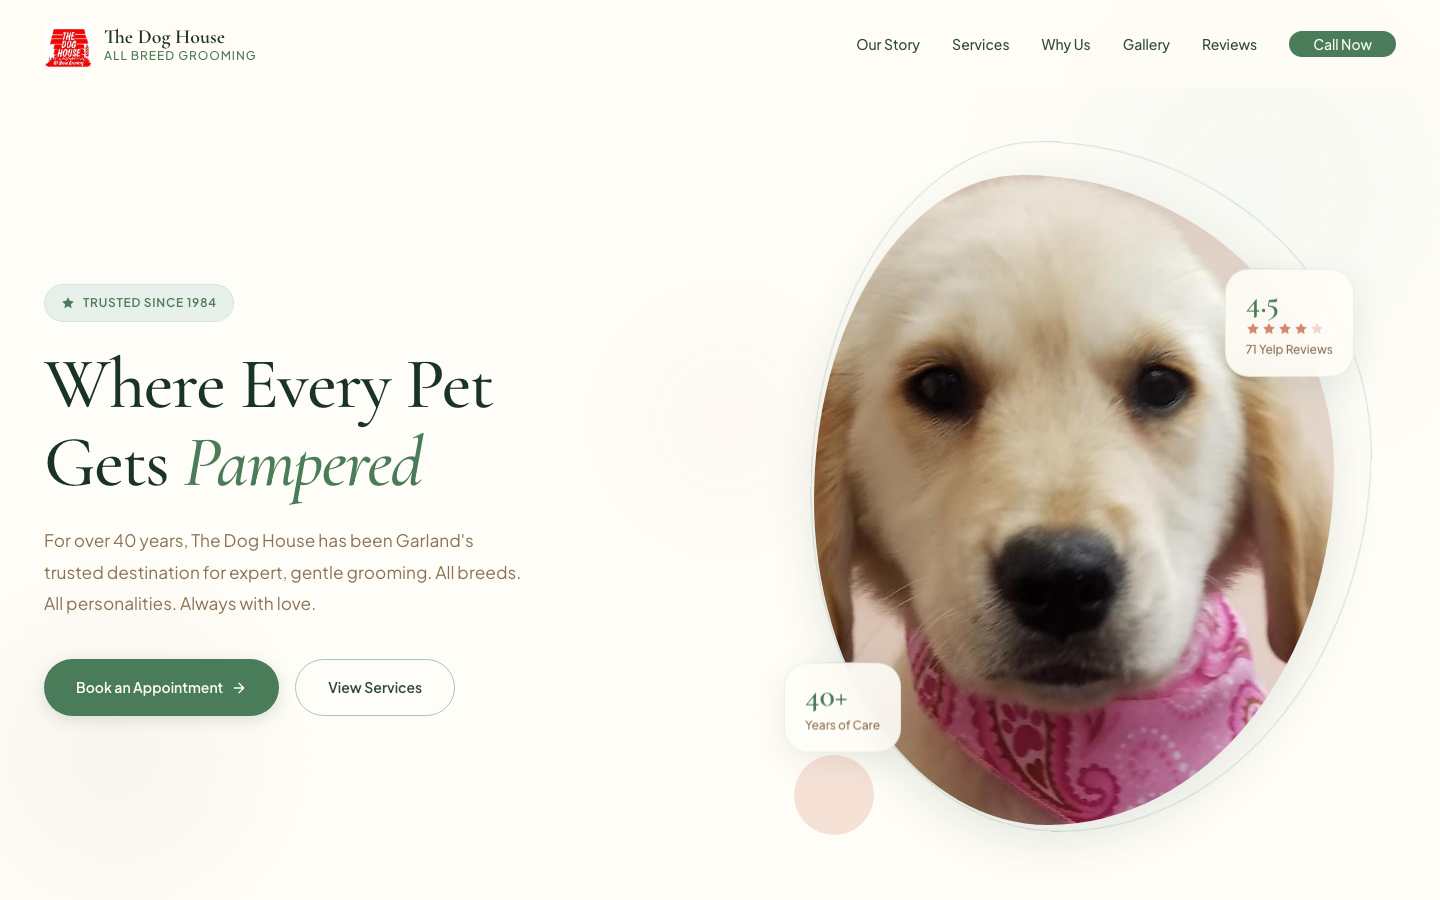
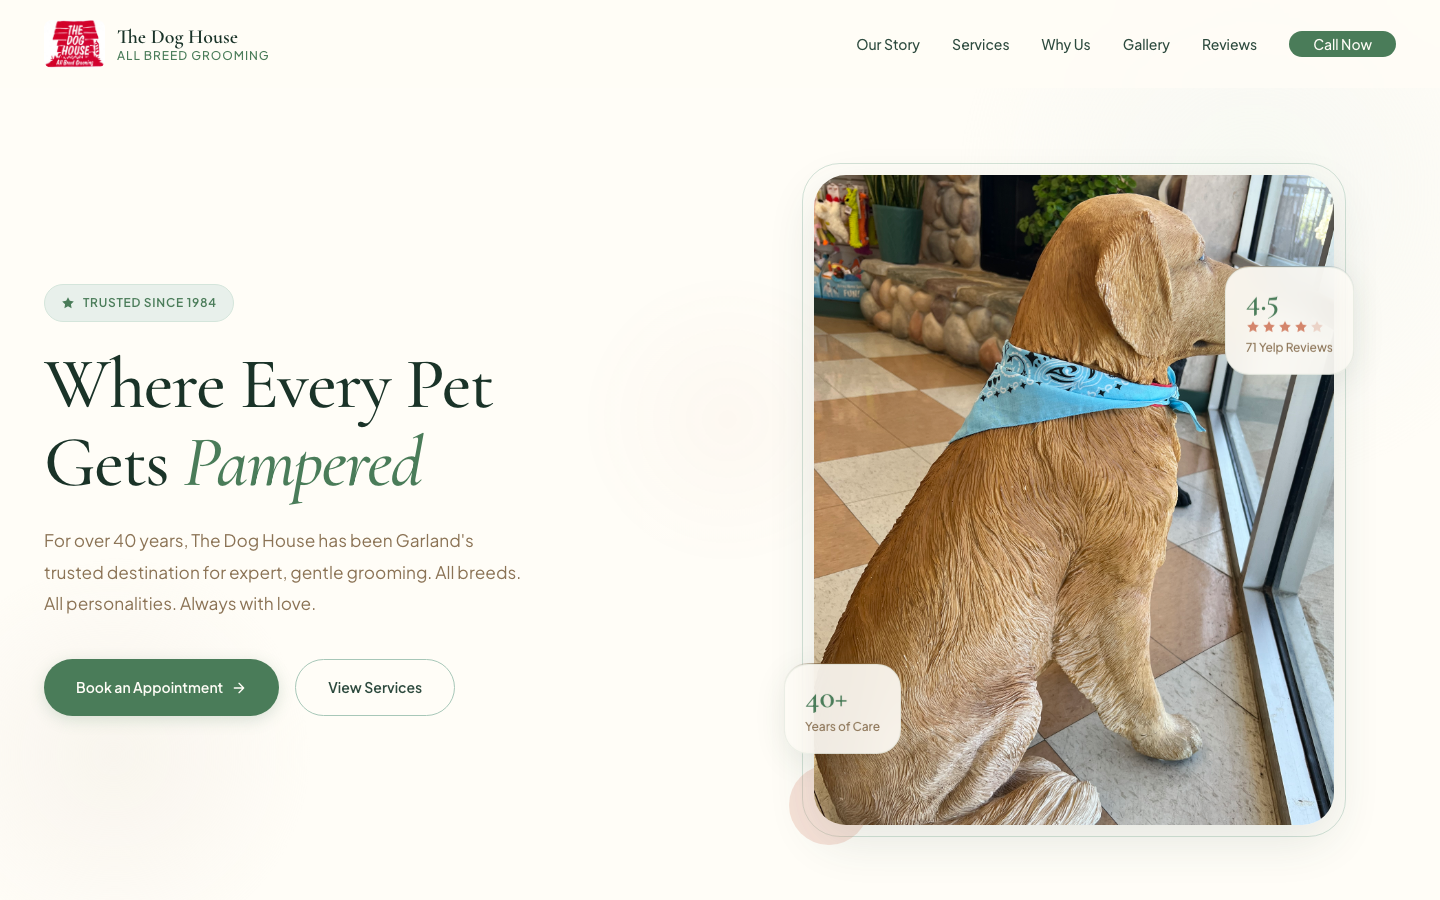
Added real shop photos to all 3 concepts, changed Coastal Luxe hero shape
Replaced stock photos with actual business location images:
- IMG_5305 (dog statue w/ bandana): Barnwood hero, Coastal Luxe hero
- IMG_5293 (fireplace close-up): Barnwood about, Heritage Bloom story,
  Coastal Luxe story
- IMG_5290 (entry/fireplace wide): Coastal Luxe story
- IMG_5294 (shop interior): Barnwood gallery
- IMG_5302 (LIVE LOVE BARK sign): Coastal Luxe gallery
- IMG_5304 (treat jars): all 3 galleries

Coastal Luxe: replaced oval blob hero frame with clean rounded
rectangle + subtle border frame.

Changed region(s): [[0.5312, 0.1867, 0.9375, 0.9333], [0.0312, 0.0, 0.1875, 0.0933]]

diff --git a/docs/doghouse/coastal-luxe/index.html b/docs/doghouse/coastal-luxe/index.html
@@ -592,20 +592,19 @@
             aspect-ratio: 4 / 5;
             object-fit: cover;
             object-position: top;
-            border-radius: 40% 60% 55% 45% / 50% 45% 55% 50%;
+            border-radius: var(--radius-2xl);
             box-shadow: var(--shadow-elevated);
         }
 
-        /* Decorative ring behind image */
+        /* Decorative border behind image */
         .hero__image-frame::before {
             content: '';
             position: absolute;
-            inset: -20px;
-            border-radius: 40% 60% 55% 45% / 50% 45% 55% 50%;
+            inset: -12px;
+            border-radius: calc(var(--radius-2xl) + 6px);
             border: 1.5px solid var(--sage-light);
             opacity: 0.5;
             z-index: -1;
-            animation: float-slow 15s ease-in-out infinite;
         }
 
         /* Small accent dot */
@@ -617,8 +616,8 @@
             border-radius: 50%;
             background: var(--coral-soft);
             opacity: 0.3;
-            bottom: -10px;
-            left: -20px;
+            bottom: -20px;
+            left: -25px;
             z-index: -1;
         }
 
@@ -1820,7 +1819,7 @@
 
             <div class="hero__visual reveal reveal--delay-2">
                 <div class="hero__image-frame">
-                    <img src="../dog01.jpg" alt="A happy golden retriever puppy wearing a pink bandana after grooming at The Dog House">
+                    <img src="../images/IMG_5305.jpeg" alt="Golden retriever statue wearing a blue bandana welcomes visitors at The Dog House">
 
                     <div class="hero__stat-card hero__stat-card--years">
                         <div class="hero__stat-number">40+</div>
@@ -1882,10 +1881,10 @@
         <div class="container container--wide story__inner">
             <div class="story__images scroll-reveal">
                 <div class="story__img-primary">
-                    <img src="../dog-with-heart.jpg" alt="A fluffy dog cuddling with a red heart plush toy">
+                    <img src="../images/IMG_5290.jpeg" alt="The Dog House welcoming entry area with stone fireplace and wreath">
                 </div>
                 <div class="story__img-secondary">
-                    <img src="../dog01.jpg" alt="Golden retriever puppy with pink bandana">
+                    <img src="../images/IMG_5293.jpeg" alt="Close-up of The Dog House stone fireplace with framed photos on the mantel">
                 </div>
                 <div class="story__year-badge">Est. 1984</div>
             </div>
@@ -2056,14 +2055,14 @@
 
             <div class="gallery__grid">
                 <div class="gallery__item scroll-reveal">
-                    <img src="../dog01.jpg" alt="Golden retriever puppy freshly groomed with a pink bandana">
+                    <img src="../images/IMG_5302.jpeg" alt="LIVE LOVE BARK carved wooden sign at The Dog House">
                     <div class="gallery__item-overlay">
                         <div class="gallery__item-title">Ready to Shine</div>
                         <div class="gallery__item-sub">Full groom with bandana</div>
                     </div>
                 </div>
                 <div class="gallery__item scroll-reveal">
-                    <img src="../dog-with-heart.jpg" alt="Fluffy dog snuggling a red heart plush toy after grooming">
+                    <img src="../images/IMG_5304.jpeg" alt="Glass jars filled with bone-shaped dog treats at The Dog House">
                     <div class="gallery__item-overlay">
                         <div class="gallery__item-title">Feeling the Love</div>
                         <div class="gallery__item-sub">Bath, brush-out, and cuddles</div>

diff --git a/docs/doghouse/barnwood-bandanas/index.html b/docs/doghouse/barnwood-bandanas/index.html
@@ -1468,7 +1468,7 @@
         <!-- ===== HERO ===== -->
         <section class="hero" aria-label="Welcome to The Dog House">
             <div class="hero__img">
-                <img src="../dog-with-heart.jpg" alt="Happy dog with a red heart at The Dog House grooming shop" width="1920" height="1080" loading="eager" fetchpriority="high">
+                <img src="../images/IMG_5305.jpeg" alt="Golden retriever statue wearing a blue bandana welcomes visitors at The Dog House" width="1920" height="1080" loading="eager" fetchpriority="high">
             </div>
             <div class="hero__content">
                 <div class="hero__badge">
@@ -1589,7 +1589,7 @@
             <div class="container">
                 <div class="about__grid">
                     <div class="about__image-wrap reveal">
-                        <img src="../dog-with-heart.jpg" alt="Fluffy dog with heart shape, representing the love and care at The Dog House" width="600" height="750" loading="lazy">
+                        <img src="../images/IMG_5293.jpeg" alt="Stone fireplace in The Dog House entry area with framed photos on the mantel" width="600" height="750" loading="lazy">
                         <div class="about__stamp" aria-label="Established 1984, over 40 years of grooming">
                             <span class="about__stamp-est">Est.</span>
                             <span class="about__stamp-year">1984</span>
@@ -1703,10 +1703,10 @@
                 </div>
                 <div class="gallery-strip__grid">
                     <div class="gallery-strip__item reveal reveal-delay-1">
-                        <img src="../dog01.jpg" alt="Golden retriever puppy with pink bandana after grooming" width="400" height="400" loading="lazy">
+                        <img src="../images/IMG_5294.jpeg" alt="The Dog House shop interior with leashes, toys, and pet supplies" width="400" height="400" loading="lazy">
                     </div>
                     <div class="gallery-strip__item reveal reveal-delay-2">
-                        <img src="../dog-with-heart.jpg" alt="Fluffy dog with heart, representing the love at The Dog House" width="400" height="400" loading="lazy">
+                        <img src="../images/IMG_5304.jpeg" alt="Glass jars filled with bone-shaped dog treats at The Dog House" width="400" height="400" loading="lazy">
                     </div>
                     <div class="gallery-strip__item reveal reveal-delay-3">
                         <img src="../doghouse-logo.jpg" alt="The Dog House All Breed Grooming logo" width="400" height="400" loading="lazy">

diff --git a/docs/doghouse/heritage-bloom/index.html b/docs/doghouse/heritage-bloom/index.html
@@ -1176,7 +1176,7 @@
                 <div class="story__grid">
                     <div class="reveal">
                         <div class="story__image-frame">
-                            <img src="../dog-with-heart.jpg" alt="Fluffy dog holding a red heart plush toy, showcasing the love and care at The Dog House" width="480" height="600" loading="lazy">
+                            <img src="../images/IMG_5293.jpeg" alt="Stone fireplace in The Dog House entry area, showcasing the love and care at The Dog House" width="480" height="600" loading="lazy">
                         </div>
                     </div>
                     <div class="story__content reveal reveal-delay-1">
@@ -1354,10 +1354,10 @@
                 </div>
                 <div class="gallery__layout">
                     <div class="gallery__item reveal">
-                        <img src="../dog01.jpg" alt="Freshly groomed golden retriever puppy with a pink bandana" width="450" height="562" loading="lazy">
+                        <img src="../images/IMG_5305.jpeg" alt="Golden retriever statue wearing a blue bandana at The Dog House entrance" width="450" height="562" loading="lazy">
                     </div>
                     <div class="gallery__item reveal reveal-delay-1">
-                        <img src="../dog-with-heart.jpg" alt="Fluffy white dog cuddling with a red heart plush after grooming" width="450" height="562" loading="lazy">
+                        <img src="../images/IMG_5304.jpeg" alt="Glass jars filled with bone-shaped dog treats at The Dog House" width="450" height="562" loading="lazy">
                     </div>
                 </div>
             </div>
